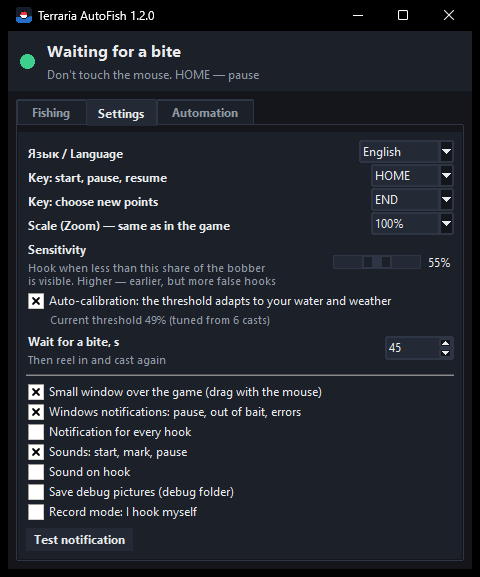
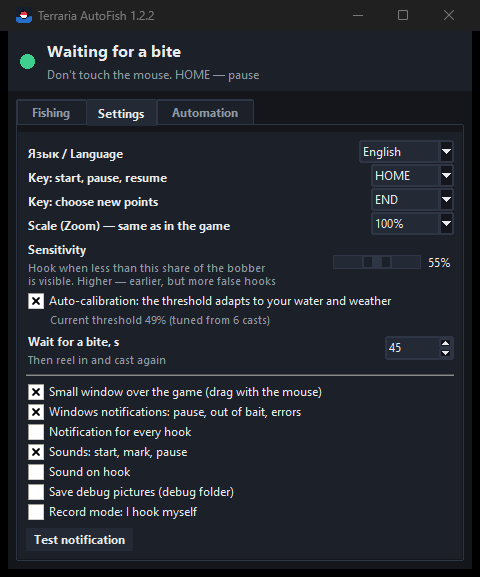
Version 1.2.2: remember the fishing rod slot from a successful cast
Hotbar icons are tiny and whips, swords and pickaxes look too much like
fishing rods, so a whip in the selected slot was taken for the rod.

- The rod slot is now the slot a cast actually produced a bobber from;
  it is kept between launches (gear.json next to the points).
- Before a cast, if another slot is selected, press the rod slot's key.
- The rod slot can be set manually on the Automation tab.
- If no bobber appears after switching, forget the slot and learn again.
- Wiki rod images are only a hint when a rod is recognized with a large
  margin.

Changed region(s): [[0.0, 0.0, 1.0, 0.0624]]

diff --git a/app.py b/app.py
@@ -25,7 +25,7 @@ import i18n
 from i18n import tr
 
 APP = "Terraria AutoFish"
-VERSION = "1.2.1"
+VERSION = "1.2.2"
 # Портативная версия: рядом с программой лежит portable.txt — всё хранится в папке программы
 PORTABLE = os.path.exists(os.path.join(af.HERE, "portable.txt"))
 CFG_DIR = (os.path.join(af.HERE, "settings") if PORTABLE
@@ -37,7 +37,7 @@ DEFAULTS = {
     "sound": True, "hook_sound": False, "debug": False, "record": False, "win_pos": None,
     "lang": "auto", "auto_calib": True, "auto_recover": True, "auto_resume": True,
     "buffs_on": False, "buff_fishing": True, "buff_crate": True, "buff_key": "b",
-    "auto_rod": True, "auto_mark": True,
+    "auto_rod": True, "auto_mark": True, "rod_slot": "auto",
 }
 LANGS = [("auto", tr("Авто / Auto")), ("ru", tr("Русский")), ("en", "English")]
 HOTKEYS = ["home", "end", "insert", "delete", "page_up", "page_down", "pause", "scroll_lock",
@@ -330,6 +330,8 @@ class App:
         af.AUTO_RECOVER = bool(self.cfg["auto_recover"])
         af.AUTO_RESUME = bool(self.cfg["auto_resume"])
         af.AUTO_ROD = bool(self.cfg["auto_rod"])
+        slot = str(self.cfg["rod_slot"])
+        af.ROD_SLOT = (int(slot) - 1) % 10 if slot.isdigit() else None
         af.AUTO_MARK = bool(self.cfg["auto_mark"])
         af.BUFFS_ON = bool(self.cfg["buffs_on"])
         af.BUFF_WANT = {"fishing": bool(self.cfg["buff_fishing"]), "crate": bool(self.cfg["buff_crate"])}
@@ -443,7 +445,7 @@ class App:
         self.buff_lbl.pack(anchor="w")
         self.show_buffs(None)
         self.gear_lbl = ttk.Label(st, text="", style="Muted.TLabel", wraplength=300, justify="left")
-        self.show_gear({"rod_slot": None, "rod": None, "bobber": None})
+        self.show_gear({"rod_slot": None, "manual": False, "bobber": None})
 
         vis = self.card(right, fill="x", pady=(6, 0))
         ttk.Label(vis, text=tr("Видно поплавка над водой (красная черта — порог)"),
@@ -580,6 +582,15 @@ class App:
         ttk.Label(box, text=tr("Удочка и поплавок"), style="Card.TLabel",
                   font=(FONT, 9, "bold")).pack(anchor="w")
         check("auto_rod", tr("Сам брать удочку в руки (если выбран другой слот хотбара)"))
+        row = ttk.Frame(box, style="Card.TFrame")
+        row.pack(fill="x", padx=(22, 0))
+        ttk.Label(row, text=tr("Слот удочки"), style="Card.TLabel").pack(side="left")
+        slots = [tr("Авто (запомню сам)")] + [str(i) for i in (1, 2, 3, 4, 5, 6, 7, 8, 9, 0)]
+        self.rodslot_var = tk.StringVar(value=slots[0] if self.cfg["rod_slot"] == "auto" else str(self.cfg["rod_slot"]))
+        cb = ttk.Combobox(row, textvariable=self.rodslot_var, values=slots, state="readonly", width=24)
+        cb.pack(side="left", padx=(8, 0))
+        cb.bind("<<ComboboxSelected>>", lambda e: self.set_auto_opt(
+            "rod_slot", "auto" if self.rodslot_var.get() == slots[0] else self.rodslot_var.get()))
         check("auto_mark", tr("Сам находить поплавок после первого заброса (по картинкам с Terraria Wiki)"))
         ttk.Separator(box).pack(fill="x", pady=8)
 
@@ -618,6 +629,9 @@ class App:
         if key.startswith("buff"):
             self.fisher.last_buff_check = 0          # проверить при ближайшем забросе
             self.show_buffs(None)
+        if key in ("auto_rod", "rod_slot"):
+            self.fisher.rod_misses = 0
+            self.fisher.gear_changed()
 
     def buff_text(self, status):
         names = {"fishing": tr("рыбалки"), "crate": tr("ящиков")}
@@ -628,7 +642,7 @@ class App:
         parts = []
         if d.get("rod_slot") is not None:
             parts.append(tr("Удочка: слот %d") % ((d["rod_slot"] + 1) % 10) +
-                         (" (%s)" % d["rod"] if d.get("rod") else ""))
+                         (tr(" (задан)") if d.get("manual") else ""))
         if d.get("bobber"):
             parts.append(tr("поплавок: %s") % d["bobber"])
         self.gear_lbl.config(text=" · ".join(parts))
@@ -937,7 +951,7 @@ class App:
         self.q.put(("log", {"text": tr("Поклёвка (%s)! Подсекаю. Подсечек: %d (ждали %.1f с)")
                                     % (tr("видно 31% поплавка"), 12, 6.2), "kind": "good"}))
         self.q.put(("calib", {"ratio": 0.49, "casts": 6, "auto": True}))
-        self.q.put(("gear", {"rod_slot": 4, "rod": "Golden Fishing Rod", "bobber": "Glowing Fishing Bobber"}))
+        self.q.put(("gear", {"rod_slot": 4, "manual": False, "bobber": "Glowing Fishing Bobber"}))
         self.q.put(("live", {"seen": 88, "ref": 110, "ratio": 0.49, "frame": img, "t": 7.4,
                              "max_wait": 45, "flash": False, "auto": True}))
 

diff --git a/i18n.py b/i18n.py
@@ -266,4 +266,18 @@ EN = {
     "Это %s.": "It's a %s.",
     "поплавок: %s": "bobber: %s",
     "Удочка: слот %d": "Rod: slot %d",
+    " (задан)": " (set)",
+    "Если в руках не удочка — возьмите её, нажмите %s и начните заново (%s на воде). Слот удочки запомню "
+    "сам или задайте его на вкладке «Автоматика».":
+        "If you're not holding the fishing rod, select it, press %s and start again (%s on the water). "
+        "I'll remember the rod slot, or you can set it on the Automation tab.",
+    "Слот удочки": "Fishing rod slot",
+    "Авто (запомню сам)": "Auto (I'll remember it)",
+    "Запомнил: удочка в слоте %d. Если в руках окажется другой предмет — возьму её сам.":
+        "Remembered: the fishing rod is in slot %d. If another item gets selected, I'll switch back to it.",
+    "Похоже, удочка в слоте %d (по картинке) — беру её.": "The fishing rod seems to be in slot %d (by its image) — taking it.",
+    "Переключился на слот %d, но поплавка нет — может, удочка теперь в другом слоте? "
+    "Забыл этот слот: возьмите удочку в руки, запомню заново.":
+        "Switched to slot %d, but there's no bobber — maybe the rod is in another slot now? "
+        "Forgot this slot: select the rod yourself and I'll remember it again.",
 }

diff --git a/installer.py b/installer.py
@@ -14,7 +14,7 @@ from tkinter import filedialog, ttk
 import setup_core as sc
 from i18n import system_lang
 
-VERSION = "1.2.1"
+VERSION = "1.2.2"
 LANG = system_lang()
 TEXT = {
     "title": ("Установка Terraria AutoFish %s", "Terraria AutoFish %s Setup"),

diff --git a/README.md b/README.md
@@ -21,8 +21,9 @@ memory or files, so it does not depend on the game version.
   water from the images of all bobbers on the Terraria Wiki (every fishing rod's bobber and all
   Fishing Bobber accessories: regular, glowing, lava/krypton/xenon/argon/neon/helium moss). If it
   can't, you simply point at the bobber once.
-- **Takes the fishing rod in hand** — remembers which hotbar slot the rod is in (all 11 rods from the
-  Wiki are recognized) and presses its number key if another item got selected.
+- **Takes the fishing rod in hand** — remembers the hotbar slot a successful cast was made from
+  (kept between launches, or set it yourself) and presses its number key if another item got
+  selected.
 - **Watches the bobber** — remembers what it looks like and hooks when it sinks.
 - **Auto-calibration** — the hook threshold adapts to your water, weather, time of day and bobber.
 - **Pause and resume without losing points** — even after closing the program. If the bobber is
@@ -105,7 +106,8 @@ does not take focus away from the game.
 
 | Setting | What it does |
 |---|---|
-| Select the fishing rod automatically | On start the program remembers the rod's hotbar slot (the selected one; if a different item is selected, it looks for a rod in the other slots). Before every cast, if another slot is selected, it presses the rod's number key. If the rod was moved to another slot and selected by you, the program just remembers the new slot |
+| Select the fishing rod automatically | Before every cast, if another hotbar slot is selected, the program presses the number key of the rod's slot |
+| Fishing rod slot | **Auto:** the program remembers the slot from which a cast actually produced a bobber, and keeps it between launches (just hold the rod the first time). If after switching to that slot no bobber appears, the slot is forgotten and learned again. Or choose the slot number yourself |
 | Find the bobber automatically | After the first cast the program looks for the bobber between the character and the cast point using the Terraria Wiki bobber images. If it doesn't find it, it asks you to point at it as before |
 | Don't give up | After 3 failed casts in a row the program doesn't stop but waits 10, 30, then 60 s, goes back to the original mark and tries again. It pauses only if all attempts fail |
 | Resume when I return | If fishing paused because you switched to another window, it resumes 2 s after you return to the game |
@@ -142,9 +144,11 @@ Settings are saved automatically in `%APPDATA%\TerrariaAutoFish` (portable versi
    casts minus 20%, within 35–75%).
 5. **Buffs.** Buff icons are drawn semi-transparent over the background, so they are recognized by
    normalized correlation (it doesn't depend on brightness or tint), at any interface scale.
-6. **Hotbar.** The selected hotbar slot is the bright yellow one; from its size the program gets the
-   interface scale and the positions of all 10 slots, and compares the items in them with the Wiki
-   images of all fishing rods. Number keys 1–9, 0 select a slot, just like in the game.
+6. **Hotbar.** The selected hotbar slot is the bright yellow one; its position gives the slot number.
+   Number keys 1–9, 0 select a slot, just like in the game. The rod's slot is learned from a
+   successful cast: item icons in the hotbar are tiny, and whips, swords and pickaxes look too much
+   like rods, so the Wiki rod images are used only as a hint when the rod is recognized with a
+   large margin.
 
 ## Troubleshooting
 
@@ -155,7 +159,8 @@ Settings are saved automatically in `%APPDATA%\TerrariaAutoFish` (portable versi
 | "Bobber not found" and pause | Usually out of bait. If the bobber lands far away — press **END** and choose new points |
 | After restarting, the program doesn't find the bobber | The character moved — press **END** and choose new points |
 | The program asks to point at the bobber | It didn't recognize the bobber (unusual lighting, another mod's bobber) — just point at it once, then everything is automatic |
-| The program switches to a wrong slot | Hold the rod when you start: the selected slot is remembered as the rod's. Or turn off "Select the fishing rod automatically" |
+| The program switches to a wrong slot | Set the rod slot on the Automation tab, or choose "Auto" and cast once holding the rod — the slot will be remembered again |
+| The first time the rod isn't taken | The program doesn't know the slot yet: hold the rod when you start (the slot will be remembered) or set it on the Automation tab |
 | Potions are not drunk | Check the Quick Buff key; press "Check buffs now" with the buff active and the game visible |
 | Zoom in the game is not 100% | Set the same scale in the settings |
 | No Windows notifications | Check "Do not disturb" / Focus assist in Windows |
